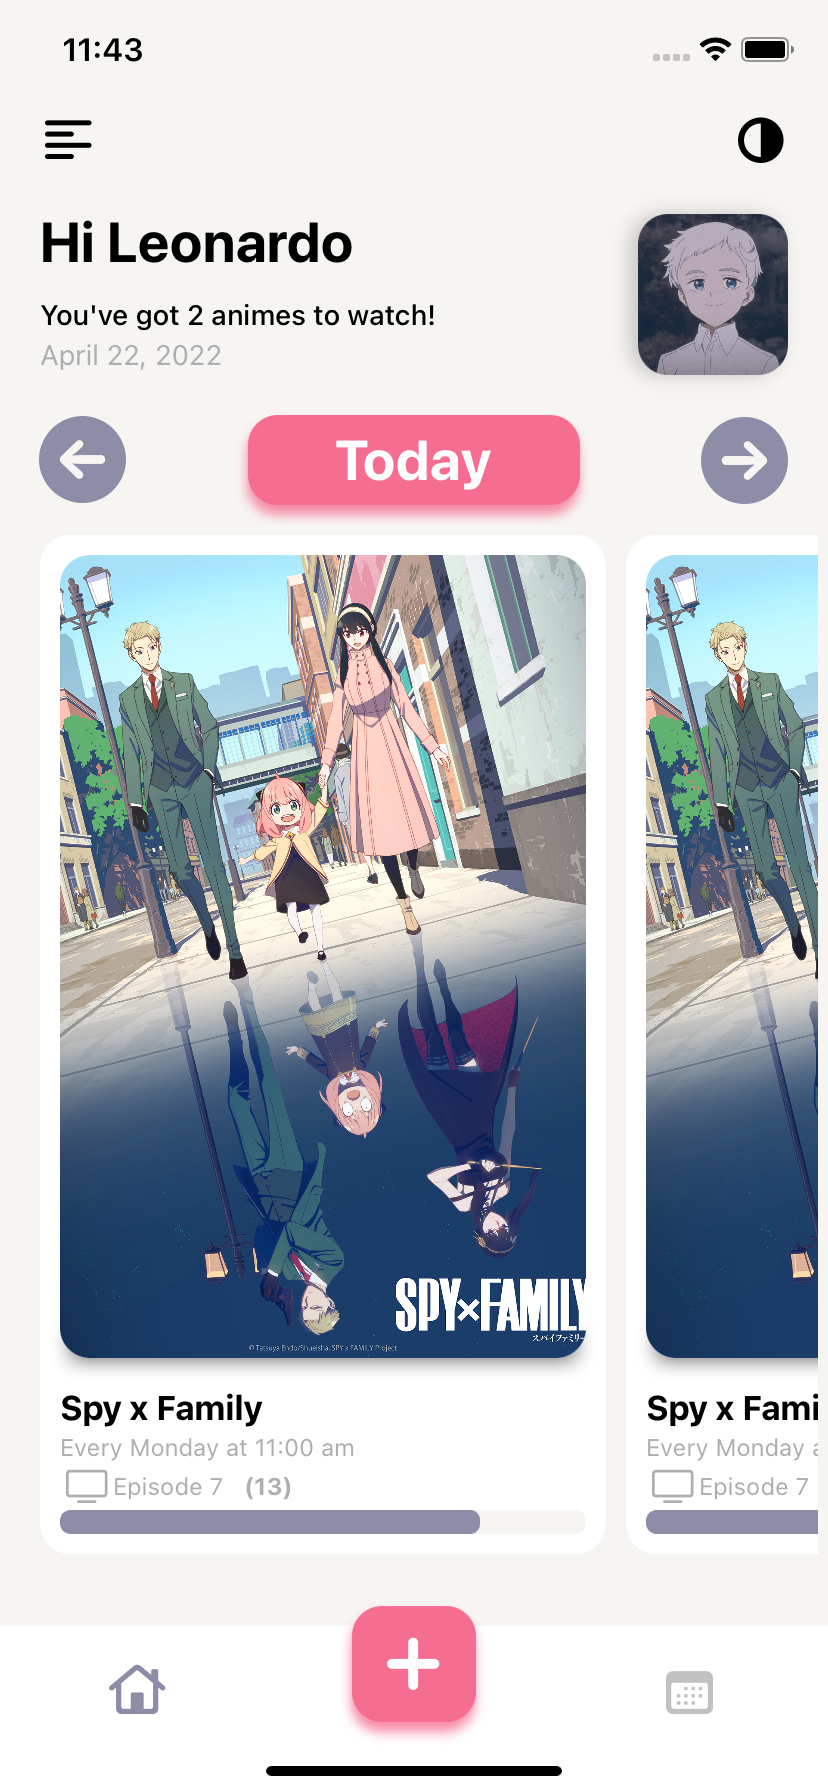
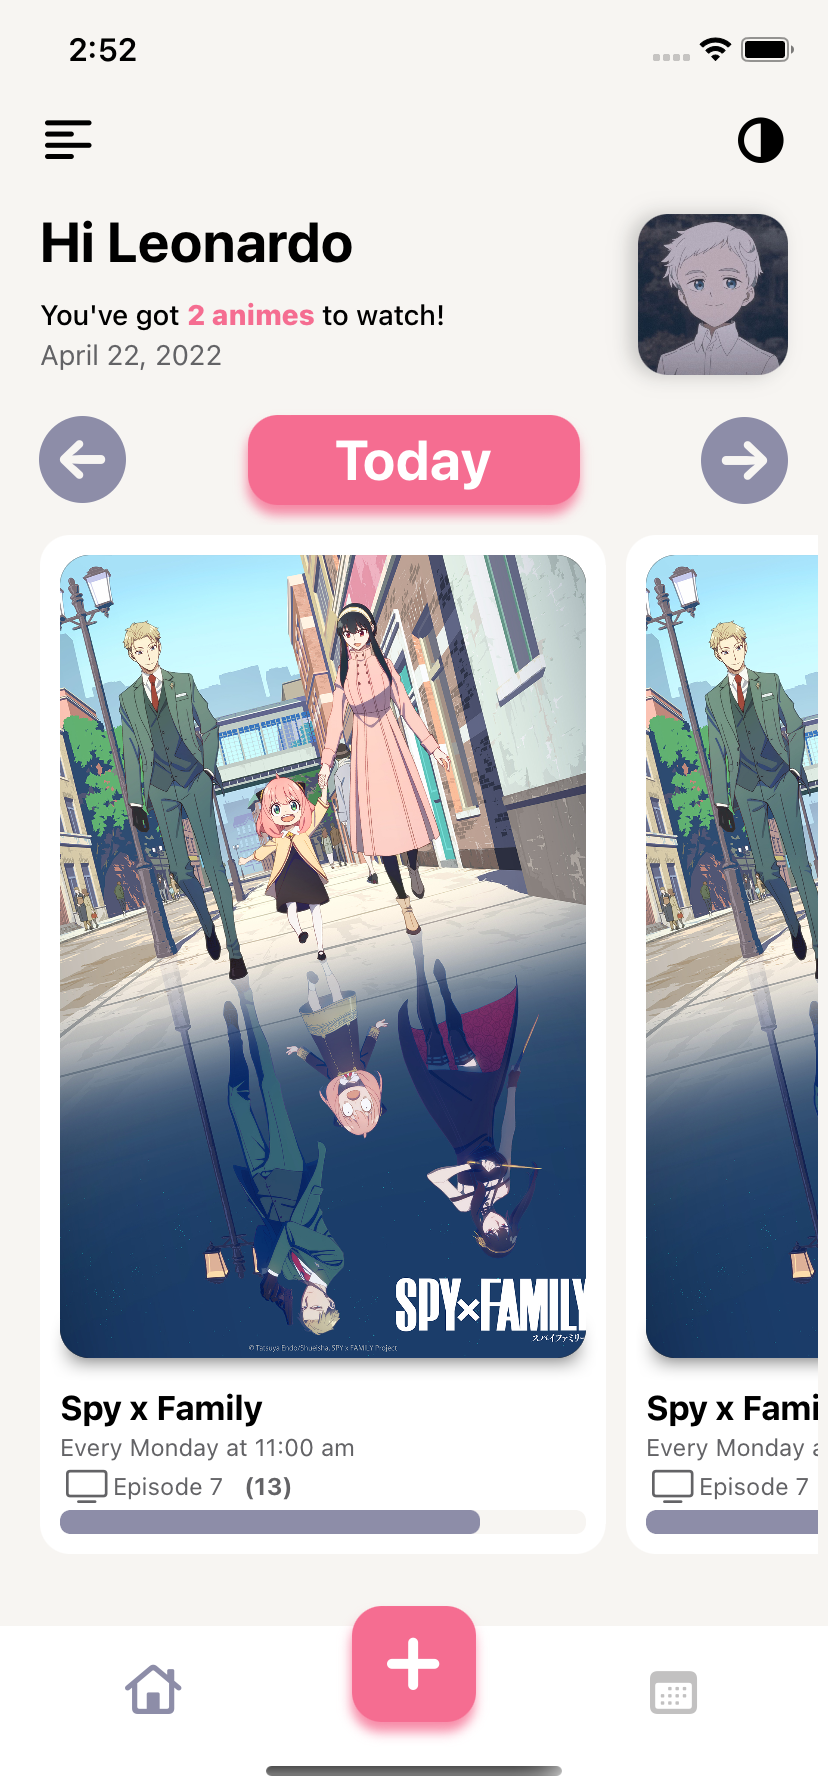
Middle button fully working, TabBarItems with spacing configured for having just 2, button presents NewAnimeScreen from TabBarController, gets created and deallocated depending on it's presentation status

diff --git a/AnimeCalendar/AnimeCalendar/Scenes/TabBar/CustomTabBarController.swift b/AnimeCalendar/AnimeCalendar/Scenes/TabBar/CustomTabBarController.swift
@@ -10,10 +10,10 @@ import UIKit
 /// # Override tabbar and configure hittest
 final class CustomTabBarController: UITabBarController, TabBarProtocol {
   private lazy var newScheduledAnimeButton: TabBarButton = NewScheduledAnimeButton()
+
   init() {
     super.init(nibName: nil, bundle: nil)
     configureTabBar()
-    delegate = self
   }
 
   @available(*, unavailable)
@@ -27,29 +27,18 @@ extension CustomTabBarController: TabBarWithMiddleButton {
     tabBar.backgroundColor = Color.white
     tabBar.unselectedItemTintColor = Color.lightGray
     tabBar.tintColor = Color.cobalt
-    tabBar.itemPositioning = .fill
+    tabBar.itemPositioning = .centered
+    tabBar.itemSpacing = CGFloat(180)
   }
 
   func configureMiddleButton(in tabBarView: UITabBar) {
     newScheduledAnimeButton.createButton(in: tabBarView)
+  }
+
+  func configureMiddleButtonAction(using request: RequestProtocol) {
     newScheduledAnimeButton.configureButtonAction = { [weak self] in
-      self?.selectedIndex = 1
+      let newAnimeVC = NewScheduledAnimeScreen(requestsManager: request).getRootViewController()
+      self?.present(newAnimeVC, animated: true)
     }
-  }
-}
-
-// MARK: - Configure NewScheduledAnime "present" animation
-
-extension CustomTabBarController: UITabBarControllerDelegate {
-  func tabBarController(_ tabBarController: UITabBarController, shouldSelect viewController: UIViewController) -> Bool {
-//    animateTabBarChange(tabBarController: tabBarController, to: viewController)
-    print("Selected VC: \(viewController)")
-    return true
-  }
-
-  func animateTabBarChange(tabBarController: UITabBarController, to viewController: UIViewController) {
-//    guard let newAnimeScreen = tabBarController.viewControllers?[1] as? NewScheduledAnimeScreen else { return }
-//    let fromView = newAnimeScreen.getRootViewController().view
-//    let toView = viewController.view
   }
 }

diff --git a/AnimeCalendar/AnimeCalendar/Scenes/TabBar/TabBarManager.swift b/AnimeCalendar/AnimeCalendar/Scenes/TabBar/TabBarManager.swift
@@ -11,6 +11,7 @@ import UIKit
 final class TabBarManager {
   private let requestsManager: RequestProtocol
   private lazy var tabBarController: TabBarWithMiddleButton = CustomTabBarController()
+  private lazy var screenFactory = ScreenFactory(requestsManager)
 
   init(_ requestsManager: RequestProtocol) {
     self.requestsManager = requestsManager
@@ -18,21 +19,19 @@ final class TabBarManager {
   }
 
   fileprivate func configureTabController() {
-    let screenFactory = ScreenFactory(requestsManager)
-
+    // Presented by the tapping the TabBarItem
     let homeVC = screenFactory.getRootScreen(.homeScreen).getRootViewController()
-    let newAnimeVC = screenFactory.getRootScreen(.newAnimeScreen).getRootViewController()
     let animeCalendarVC = screenFactory.getRootScreen(.animeCalendarScreen).getRootViewController()
 
-    let tabBarViewControllers = [homeVC, newAnimeVC, animeCalendarVC]
+    // TabBar items (ViewControllers)
+    let tabBarViewControllers = [homeVC, animeCalendarVC]
     tabBarController.setViewControllers(tabBarViewControllers, animated: false)
   }
 
   fileprivate func configureTabBarMiddleButton() {
-    // Disabling NewScheduledAnime's TabBarItem interaction, so it only works when the button is pressed
-    tabBarController.tabBar.items?[1].isEnabled = false
-    // Configuring middle tabbar button (Inside TabBar's view but with it's TabBarItem interaction disabled)
+    // Configuring the Middle Button, alonside it's press-action
     tabBarController.configureMiddleButton(in: tabBarController.tabBar)
+    tabBarController.configureMiddleButtonAction(using: requestsManager)
   }
 
   fileprivate func configureTabManager() {

diff --git a/AnimeCalendar/AnimeCalendar/Scenes/Screens/Home/Components/HomeHeader/HomeHeaderComponent.swift b/AnimeCalendar/AnimeCalendar/Scenes/Screens/Home/Components/HomeHeader/HomeHeaderComponent.swift
@@ -42,8 +42,27 @@ extension HomeHeaderComponent: ScreenComponent {
 
   func configureSubviews() {
     /// # Working with 2 UIViews
+    configureAnimesToWatchLabel()
     configurePictureView()
     configurePictureImage()
+  }
+}
+
+extension HomeHeaderComponent {
+  func configureAnimesToWatchLabel() {
+    guard let text = animesToWatchLabel.text else { fatalError("AnimesToWatchLabel is empty") }
+
+    let animesCountColorAttribute: UIColor = Color.pink
+    let animesCountFontAttribute = UIFont.systemFont(ofSize: 14, weight: .heavy)
+
+    let animesCountAttributes: [NSAttributedString.Key: Any] = [
+      .foregroundColor: animesCountColorAttribute,
+      .font: animesCountFontAttribute
+    ]
+
+    let animesCountMutableText = NSMutableAttributedString(string: text)
+    animesCountMutableText.addAttributes(animesCountAttributes, range: NSRange(location: 11, length: 8))
+    animesToWatchLabel.attributedText = animesCountMutableText
   }
 
   func configurePictureView() {

diff --git a/AnimeCalendar/AnimeCalendar/Scenes/Screens/NewScheduledAnime/NewScheduledAnimeScreen.swift b/AnimeCalendar/AnimeCalendar/Scenes/Screens/NewScheduledAnime/NewScheduledAnimeScreen.swift
@@ -37,6 +37,7 @@ extension NewScheduledAnimeScreen {
 
 extension NewScheduledAnimeScreen {
   func configureNavigationItems() {
+    navigationItem.leftBarButtonItem = UIBarButtonItem(barButtonSystemItem: .add, target: nil, action: nil)
     configureLeftNavigationItems()
     configureRightNavigationItems()
   }
@@ -54,7 +55,7 @@ extension NewScheduledAnimeScreen: RootViewController {
 
 extension NewScheduledAnimeScreen: ScreenWithTabItem {
   func configureTabItem() {
-    tabBarItem = UITabBarItem(title: nil, image: nil, selectedImage: nil)
-    tabBarItem.isEnabled = false
+//    tabBarItem = UITabBarItem(title: nil, image: nil, selectedImage: nil)
+//    tabBarItem.isEnabled = false
   }
 }

diff --git a/AnimeCalendar/AnimeCalendar/Scenes/Screens/Home/HomeScreen.swift b/AnimeCalendar/AnimeCalendar/Scenes/Screens/Home/HomeScreen.swift
@@ -109,6 +109,9 @@ extension HomeScreen {
   }
 }
 
+extension HomeScreen {
+}
+
 extension HomeScreen: RootViewController {
   func getRootViewController() -> UIViewController {
     return CustomNavigationController(self)
@@ -123,4 +126,3 @@ extension HomeScreen: ScreenWithTabItem {
     tabBarItem = UITabBarItem(title: nil, image: tabImage, selectedImage: tabImage)
   }
 }
-

diff --git a/AnimeCalendar/AnimeCalendar/Scenes/TabBar/Contracts/TabBarProtocol.swift b/AnimeCalendar/AnimeCalendar/Scenes/TabBar/Contracts/TabBarProtocol.swift
@@ -13,4 +13,5 @@ protocol TabBarProtocol: UITabBarController {
 
 protocol TabBarWithMiddleButton: TabBarProtocol {
   func configureMiddleButton(in tabBarView: UITabBar)
+  func configureMiddleButtonAction(using request: RequestProtocol)
 }
